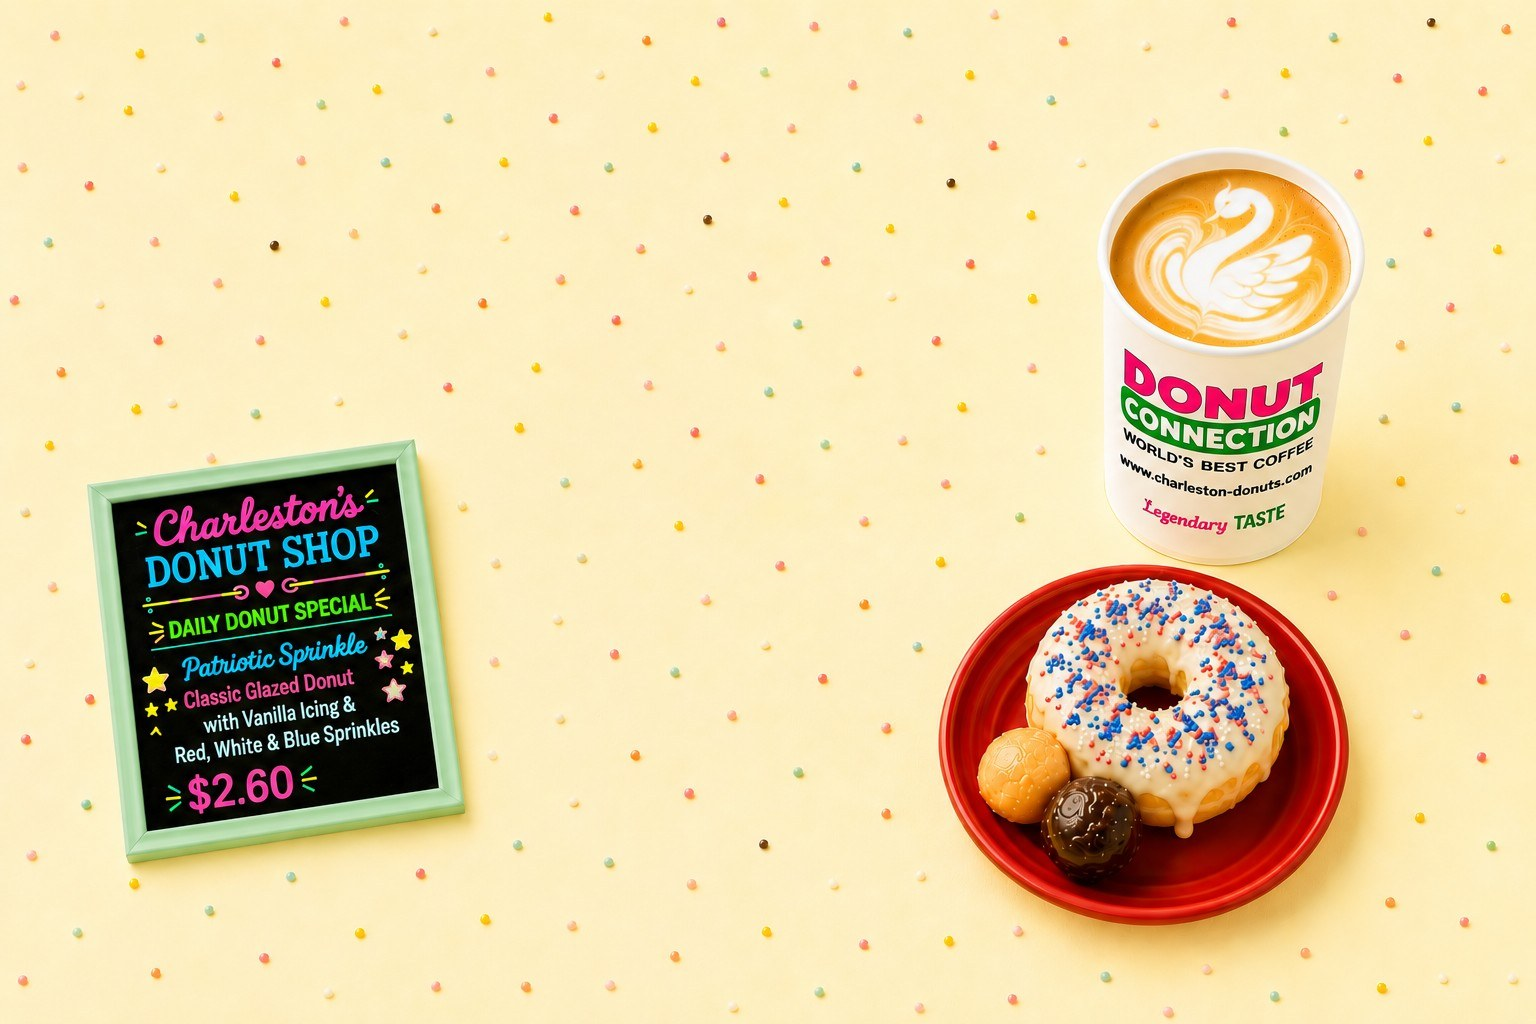
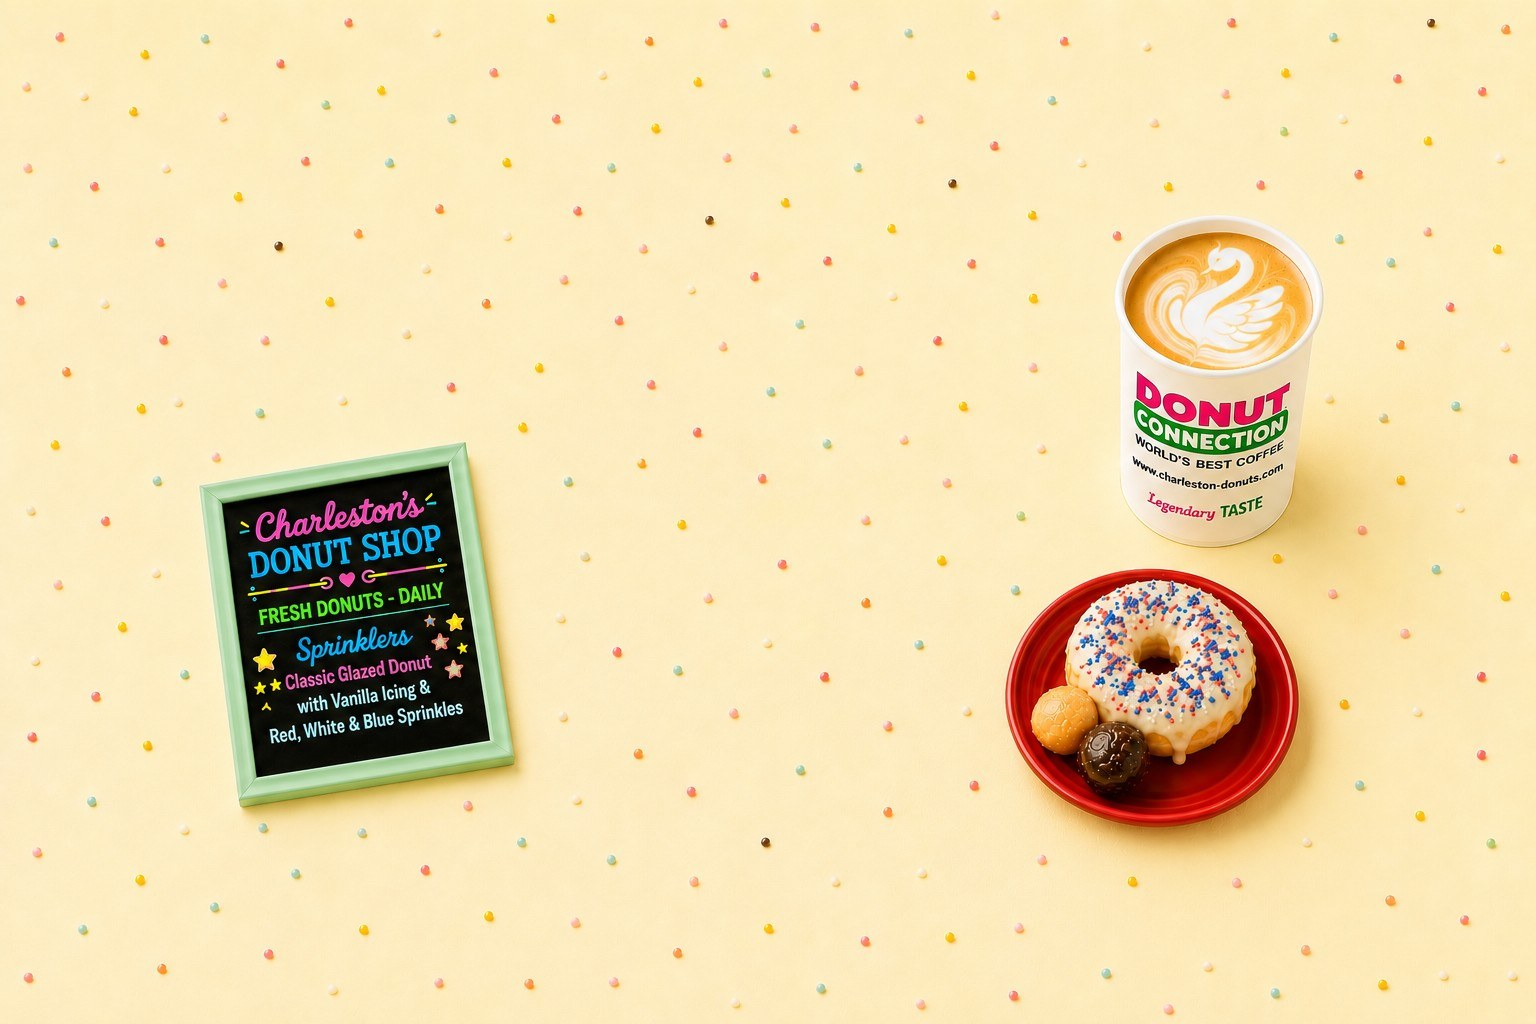
Change 905

diff --git a/assets/css/styles.css b/assets/css/styles.css
@@ -222,7 +222,7 @@ section { padding: 64px 0; }
   color: var(--chocolate);
   position: relative;
   overflow: hidden;
-  min-height: 620px;
+  min-height: 520px;
 }
 .hero::before {
   content: none;
@@ -230,7 +230,7 @@ section { padding: 64px 0; }
 .hero .container {
   position: relative;
   z-index: 1;
-  padding-top: 230px;
+  padding-top: 56px;
   padding-bottom: 220px;
 }
 .hero-left { display: flex; flex-direction: column; align-items: flex-start; }
@@ -284,7 +284,7 @@ section { padding: 64px 0; }
   z-index: 3;
 }
 @media (max-width: 880px) {
-  .hero { min-height: 620px; background-position: 70% center; }
+  .hero { min-height: 460px; background-position: 70% center; }
   .hero .container { padding-top: 36px; padding-bottom: 36px; }
   .hero-badge { width: 80px; height: 80px; font-size: 0.6rem; }
   .hero p[style*="position:absolute"] {

diff --git a/index.html b/index.html
@@ -10,7 +10,7 @@
 <link rel="stylesheet" href="assets/css/styles.css">
 </head>
 <body>
-<header class="site-header home-hero-header">
+<header class="site-header">
   <div class="nav-wrap">
     <a href="index.html" class="brand">
       <span class="ring"></span>
@@ -26,10 +26,6 @@
       <a href="rewards.html">Sweet Rewards</a>
       <a href="about.html">Our Story</a>
       <a href="gallery.html">Gallery</a>
-      <span style="display:inline-flex;align-items:center;gap:8px;flex-shrink:0;">
-        <a href="contact.html" class="btn" style="background:#FFB6C1;color:#FFFFFF;font-weight:800;border:1px solid #FFB6C1;box-shadow:0 2px 0 var(--chocolate);font-size:0.5rem;padding:6.5px 14px;">Visit Us</a>
-        <a href="index.html#order-ahead" class="btn btn-primary" style="font-size:0.525rem;padding:7px 14px;">Order Ahead</a>
-      </span>
     </nav>
   </div>
 </header>